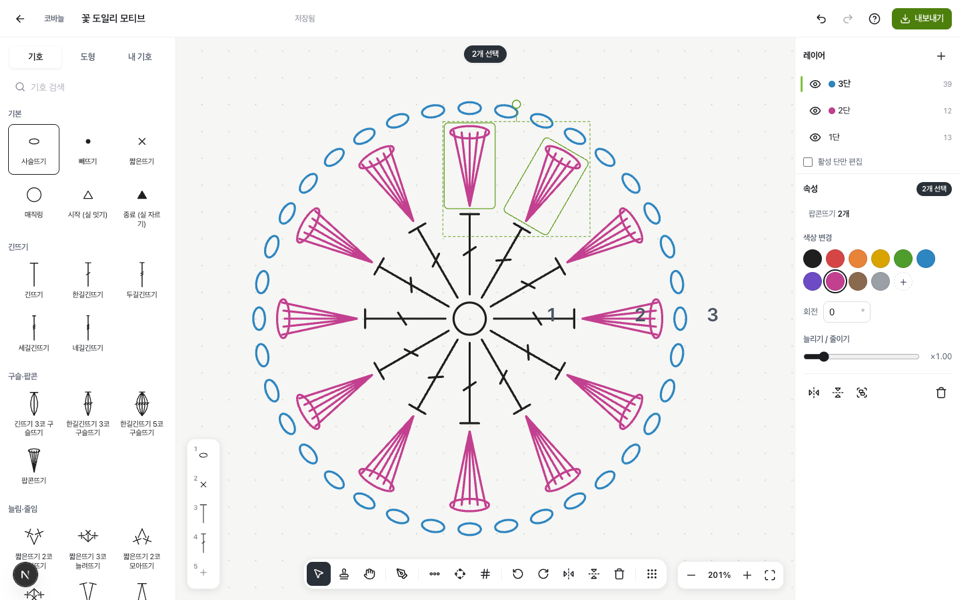
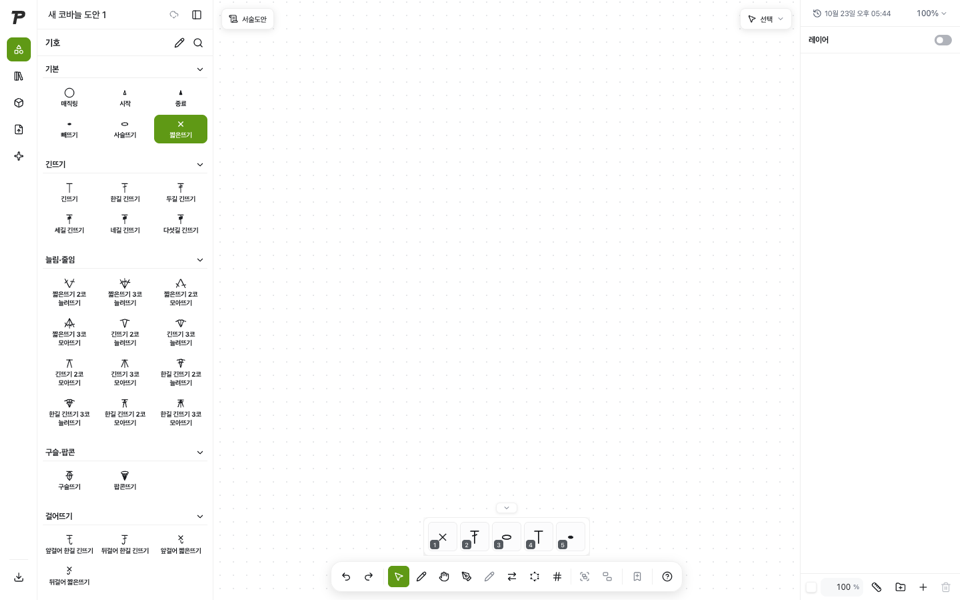
README: editor pixel comparison against reference, refreshed screenshots
Claude-Session: https://claude.ai/code/session_01WjkTcxb23iy5DCuhLLGrFE

diff --git a/README.md b/README.md
@@ -97,14 +97,29 @@ scripts/gen-swatches.mjs  랜딩용 편물 자리표시 그림 생성
 
 </details>
 
-## 편집기 화면
+## 편집기 화면 대조
 
-원본 편집기는 로그인 뒤에 있어 화면을 직접 대조하지 못했습니다. 원본 페이지에 담긴 편집기 화면 문구(메뉴·단축키·안내·투어 설명)와 공개 튜토리얼 영상을 근거로 기능과 문구를 맞췄고, 배치·모양은 추정입니다.
+원본 편집기(로그인 후 화면) 스크린샷·DOM 저장본을 기준으로, 같은 상태를 만들어 1440×900에서 찍고 REA `compare-web-screenshots`로 바뀐 픽셀 비율을 쟀습니다(채널 차이 8 이하 무시).
+
+| 화면 | 처음 | 지금 |
+|---|---|---|
+| 홈(빈 상태) | 9.46% | 0.11% |
+| 홈(새 도안 메뉴) | 9.35% | 0.11% |
+| 코바늘 편집기(새 도안) | 61.7% | 0.21% |
+| 코바늘 편집기(기호 선택) | 61.9% | 0.21% |
+| 대바늘 편집기(새 도안 + 심화 레슨) | 95.8% | 1.77% |
+| 대바늘 편집기(격자 고치기 레슨) | 85.9% | 0.95% |
+| 배색·방안(시작 대화상자) | 93.6% | 0.07% |
+| 배색·방안(이미지 탭) | 99.6% | 0.42% |
+
+남은 차이는 직접 그린 기호 그림·로고(원본 이미지를 쓰지 않음), 격자 선 안티에일리어싱, 애니메이션 위상입니다.
+기호 목록은 원본 번들을 REA로 분석해 묶음·순서·이름·높이를 맞췄습니다(코바늘 8묶음 42종, 대바늘 17묶음 328종). 기호 그림과 코드는 직접 작성했습니다.
+
+| 코바늘 | 대바늘 | 배색·방안 | 홈 |
+|---|---|---|---|
+| ![](docs/editor/crochet.png) | ![](docs/editor/knitting.png) | ![](docs/editor/grid.png) | ![](docs/editor/home.png) |
 
 ## 배포
 
 Vercel 프로젝트 `chunbaenas-projects/patterners-clone` (Vercel 로그인 보호, 검색 노출 차단).
 
-| 코바늘 | 대바늘 | 배색·방안 |
-|---|---|---|
-| ![](docs/editor/crochet.png) | ![](docs/editor/knitting.png) | ![](docs/editor/grid.png) |
